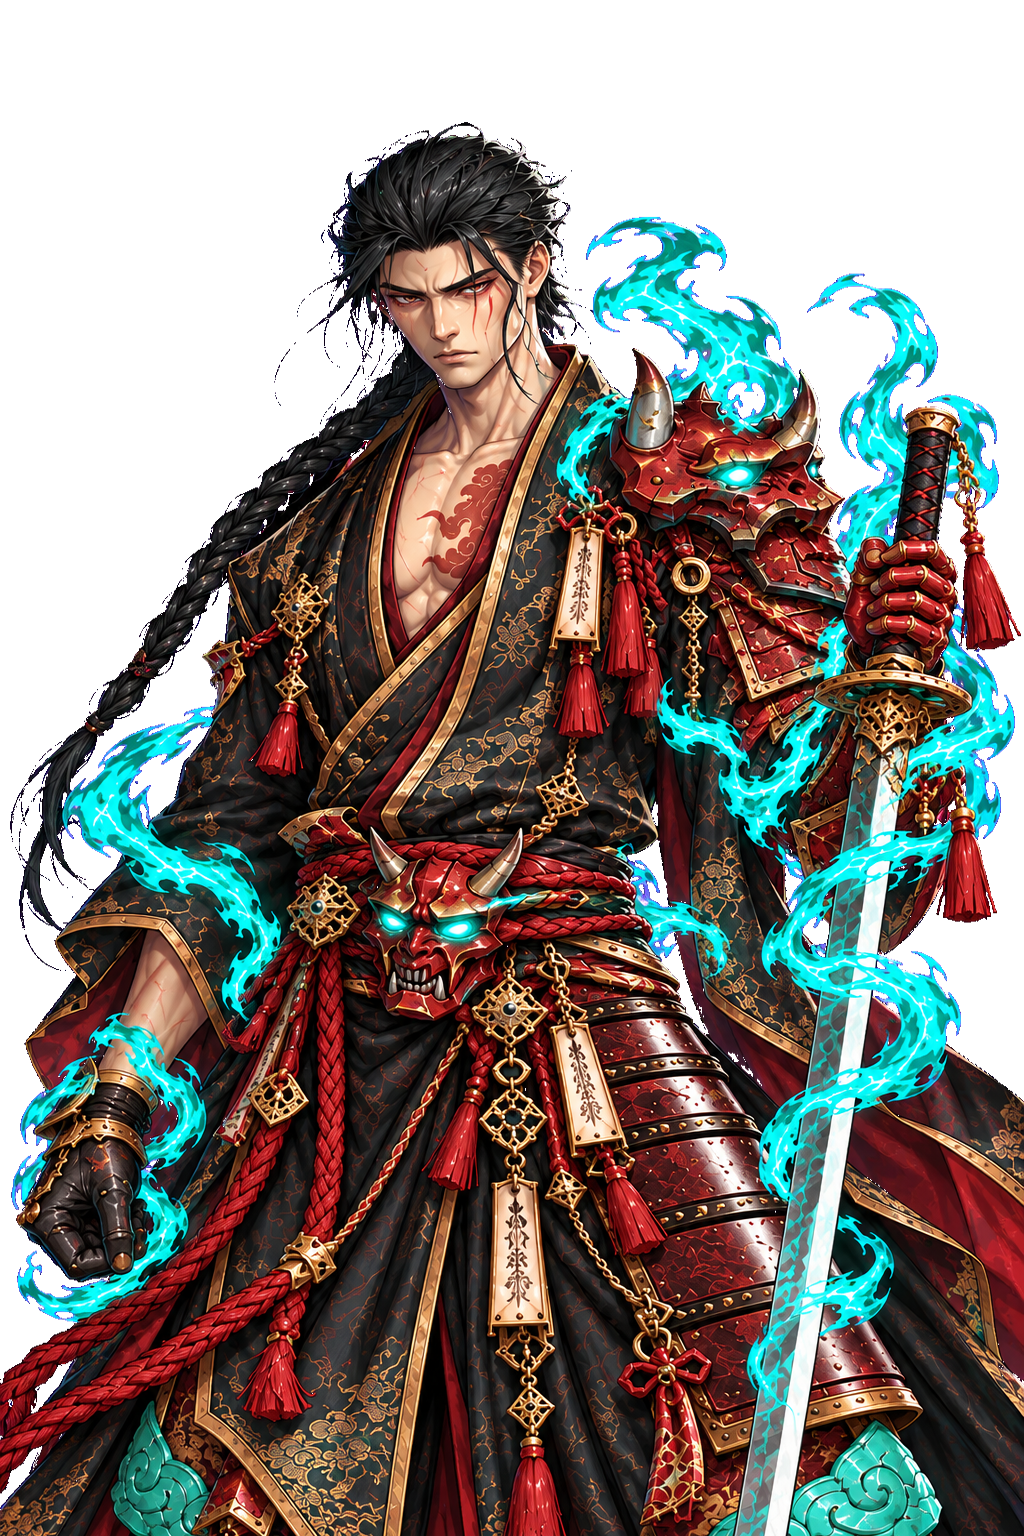
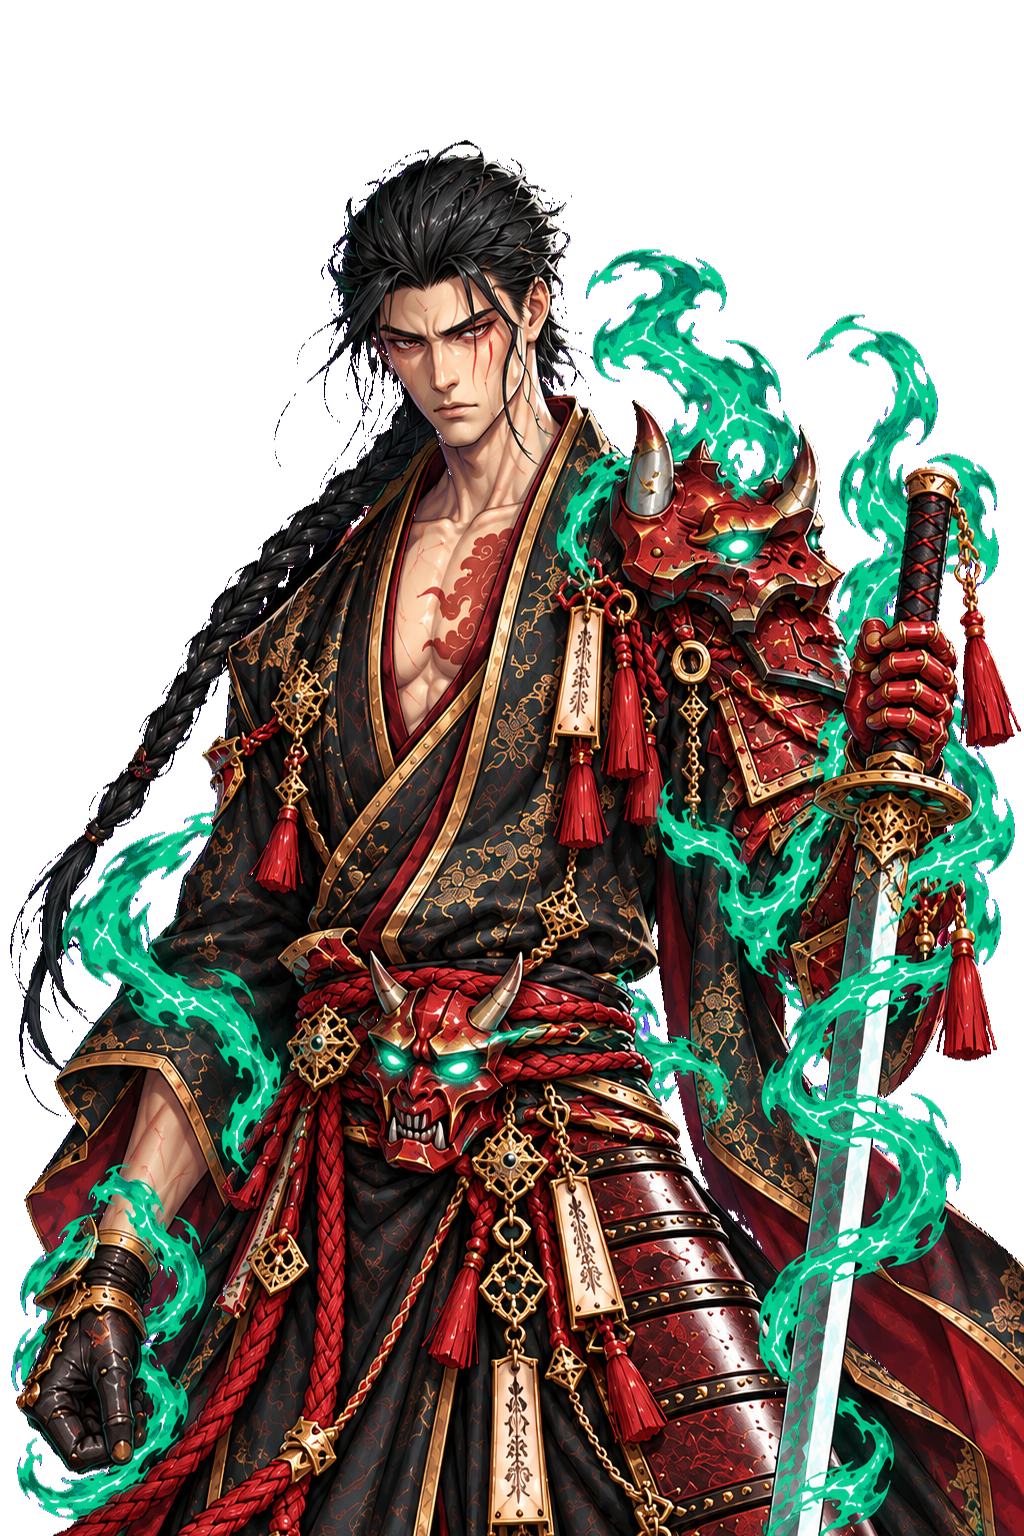
Oni's close-up was squashed: the painting stood about 15% shorter than his full-body one (broad face, stocky torso). Stretched it 1.15x tall and cut it back to 1024x1536 at the hips, and moved his eye focus down to match (0.205 -> 0.236) for the title subtitle and the talk scenes

diff --git a/Assets/GameManager.cs b/Assets/GameManager.cs
@@ -537,7 +537,7 @@ public class GameManager : MonoBehaviour
     GameUI.SpeakerPortrait? PortraitFor(string speaker) => speaker switch
     {
         // His close-up is 1024x1536, cut at the hips; drawn this tall his head and shoulders fill the frame.
-        "Oni" when oniCloseup != null => new GameUI.SpeakerPortrait { art = oniCloseup, focus = new Vector2(0.46f, 0.205f), height = 780f },
+        "Oni" when oniCloseup != null => new GameUI.SpeakerPortrait { art = oniCloseup, focus = new Vector2(0.46f, 0.236f), height = 780f },
         _ => null,
     };
 
@@ -2066,7 +2066,7 @@ public class GameManager : MonoBehaviour
             case "Oni":
                 // His painting fills more of its canvas than the others', so it's drawn a little smaller to match faces.
                 return new DialogueScene.Speaker { name = "Oni", epithet = "The Ronin", colour = OniColour, art = oniCloseup,
-                    focus = new Vector2(0.46f, 0.205f), height = ScenePortraitHeight * 0.9f, right = true };
+                    focus = new Vector2(0.46f, 0.236f), height = ScenePortraitHeight * 0.9f, right = true };
             // The souls' paintings fill their canvases edge to edge, so they're drawn smaller than Oni's to match faces.
             case "Akagane": return SoulSpeaker(name, "Captain of the Vanguard", Element.Fire, akaganeCloseup, new Vector2(0.62f, 0.24f));
             case "Mizore": return SoulSpeaker(name, "The Court Physician", Element.Water, mizoreCloseup, new Vector2(0.62f, 0.23f));
